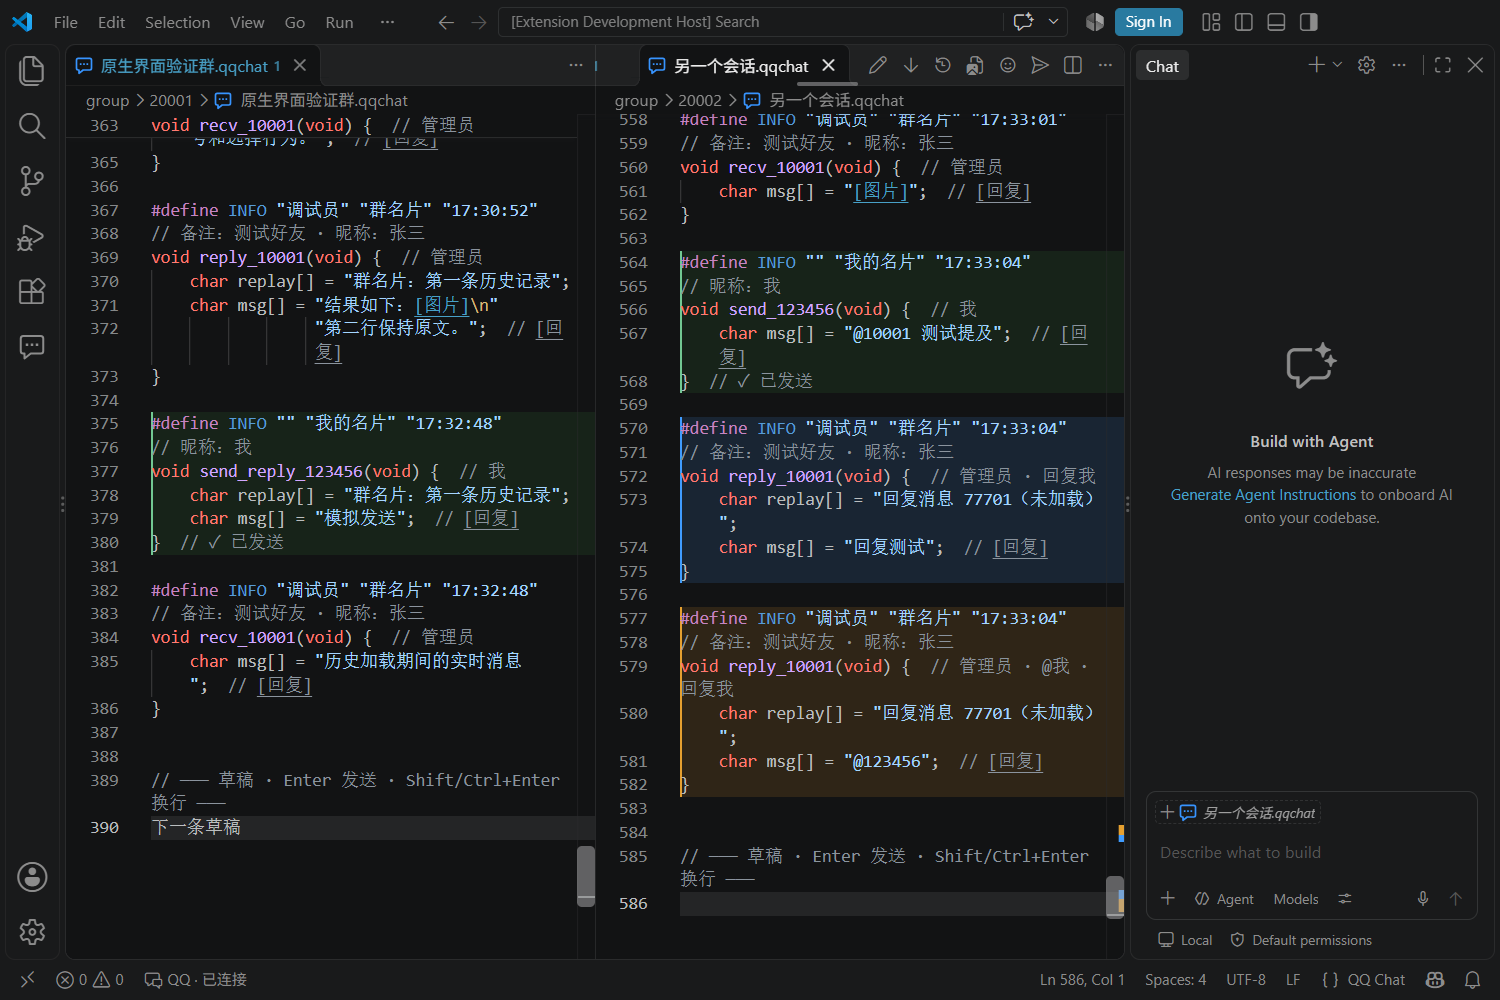
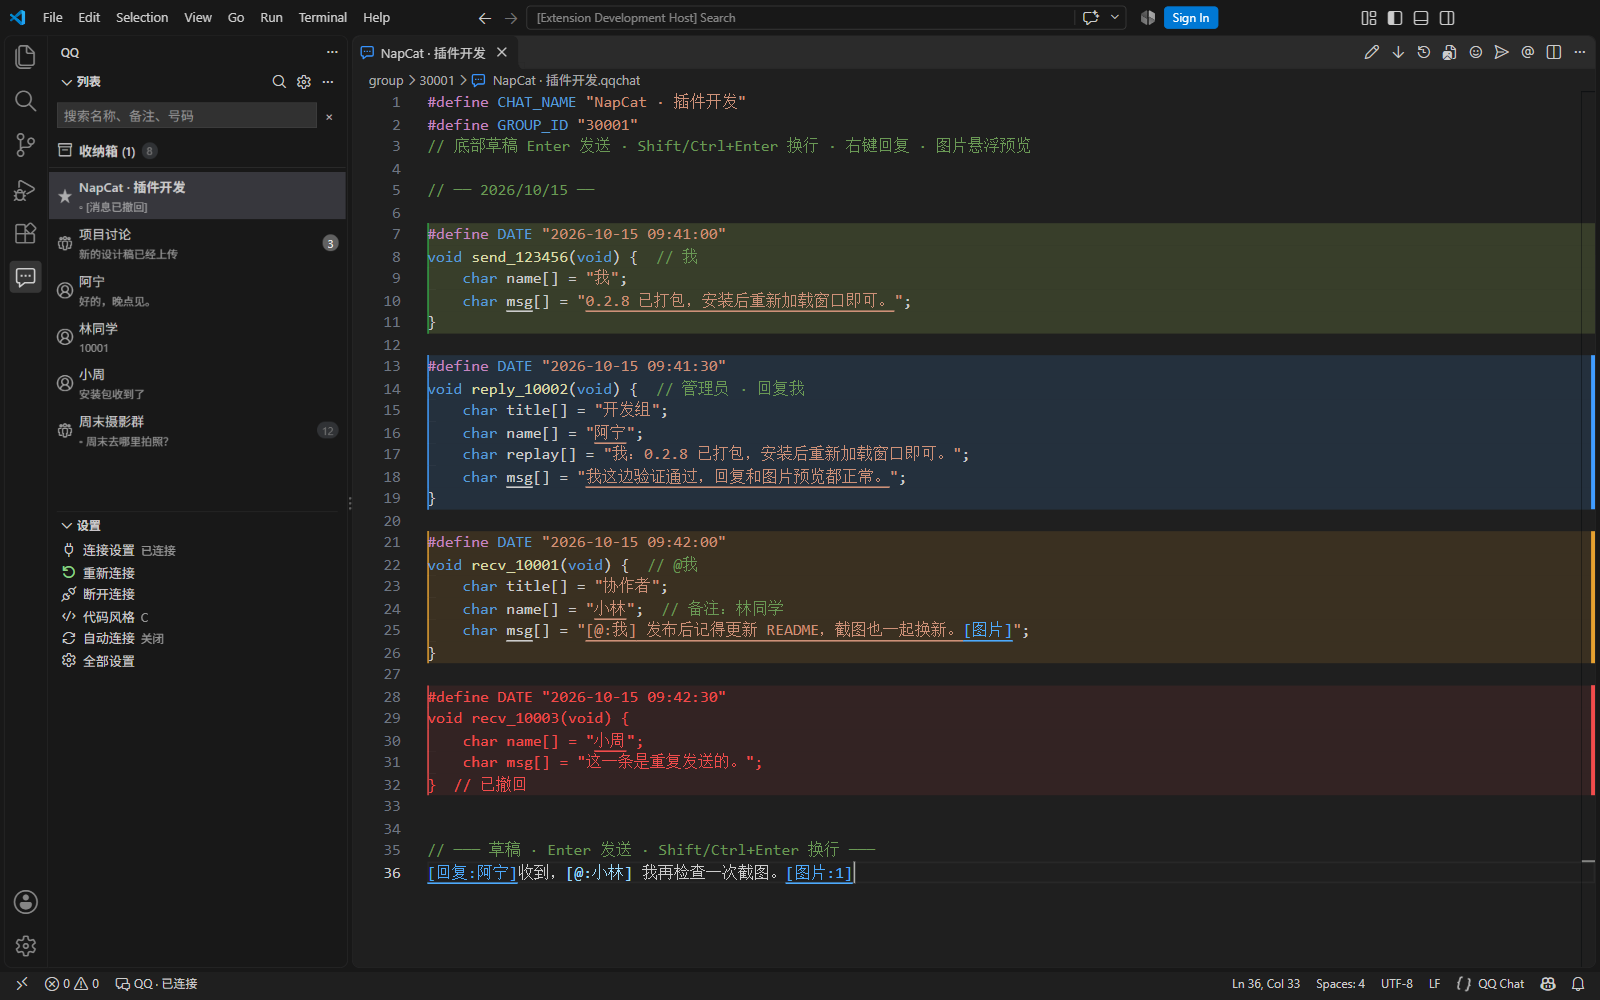
docs: refresh README and desktop previews for 0.2.8

diff --git a/tests/preview.ts b/tests/preview.ts
@@ -1,0 +1,127 @@
+import * as vscode from 'vscode';
+import assert from 'node:assert/strict';
+import * as fs from 'node:fs/promises';
+import * as path from 'node:path';
+import type { QQApp } from '../src/extension';
+import { newChat, parseMessage } from '../src/model';
+import { MockNapCat, png, until } from './fixture';
+import { TestUI } from './ui';
+
+// Real extension UI with synthetic data; no real QQ account or message sending.
+export async function run(): Promise<void> {
+  const backend = new MockNapCat();
+  backend.history = () => [];
+  await backend.start();
+  let app: QQApp | undefined, ui: TestUI | undefined;
+  try {
+    const extension = vscode.extensions.getExtension<{ app: QQApp }>('rynxis.vscode-qq')!;
+    app = (await extension.activate()).app;
+    await vscode.workspace.getConfiguration('editor').update('editContext', false, vscode.ConfigurationTarget.Global);
+    await vscode.workspace.getConfiguration('qq').update('notifications', 'off', vscode.ConfigurationTarget.Global);
+    await app.config.saveConnection(backend.url, '', false);
+    await app.connect();
+    await until(() => app!.ready && backend.listResponses >= 2);
+    ui = await TestUI.connect();
+    await ui.call('Emulation.setDeviceMetricsOverride', { width: 1600, height: 1000, deviceScaleFactor: 1, mobile: false });
+    await vscode.commands.executeCommand('workbench.action.closeAllEditors');
+    await vscode.commands.executeCommand('workbench.action.joinAllGroups');
+    await vscode.commands.executeCommand('workbench.action.closeAuxiliaryBar');
+    await vscode.commands.executeCommand('workbench.action.closePanel');
+    await vscode.commands.executeCommand('qq.show.list');
+
+    const store = app.store!, key = 'group:30001';
+    store.chats.delete('group:20001');
+    store.upsert(newChat('group', 30001, 'NapCat · 插件开发'));
+    store.upsert(newChat('group', 20002, '周末摄影群'));
+    store.upsert({ ...newChat('private', 10001, '林同学'), remark: '林同学' });
+    for (const chat of [newChat('group', 20003, '项目讨论'), newChat('private', 10002, '阿宁'), newChat('group', 20004, '技术交流'), newChat('private', 10003, '小周')]) store.upsert(chat);
+    store.toggleFavorite(key);
+    store.setNotification('group:20002', 'muted');
+    store.chats.get('group:20002')!.unread = 12;
+    store.chats.get('group:20002')!.preview = '周末去哪里拍照？';
+    store.setNotification('group:20003', 'notify');
+    store.chats.get('group:20003')!.unread = 3;
+    store.chats.get('group:20003')!.preview = '新的设计稿已经上传';
+    store.setNotification('group:20004', 'muted');
+    store.chats.get('group:20004')!.unread = 8;
+    store.toggleCollapsed('group:20004');
+    store.chats.get('private:10002')!.preview = '好的，晚点见。';
+    store.chats.get('private:10003')!.preview = '安装包收到了';
+    await app.openChat(key);
+    await app.loadMembers(key);
+    store.setMembers(key, [
+      { user_id: 123456, card: '我', role: 'member' },
+      { user_id: 10001, card: '小林', title: '协作者', role: 'member' },
+      { user_id: 10002, card: '阿宁', title: '开发组', role: 'admin' },
+      { user_id: 10003, card: '小周', role: 'member' }
+    ]);
+    const base = new Date('2026-10-15T09:41:00+08:00').getTime() / 1000;
+    const samples = [
+      { message_id: 7001, user_id: 123456, message: [{ type: 'text', data: { text: '0.2.8 已打包，安装后重新加载窗口即可。' } }] },
+      { message_id: 7002, user_id: 10002, message: [{ type: 'reply', data: { id: 7001 } }, { type: 'text', data: { text: '我这边验证通过，回复和图片预览都正常。' } }] },
+      { message_id: 7003, user_id: 10001, message: [{ type: 'at', data: { qq: 123456 } }, { type: 'text', data: { text: ' 发布后记得更新 README，截图也一起换新。' } }, { type: 'image', data: { file: 'preview.png', url: backend.imageUrl } }] },
+      { message_id: 7004, user_id: 10003, message: [{ type: 'text', data: { text: '这一条是重复发送的。' } }] }
+    ];
+    for (const [index, sample] of samples.entries()) store.add(parseMessage({ ...sample, time: base + index * 30, message_type: 'group', group_id: 30001, sender: { user_id: sample.user_id } }, key, store.selfId), false);
+    store.recall(key, '7004');
+    const mention = store.reserveMention(key, '10001', '小林');
+    store.setDraft(key, `收到，${mention} 我再检查一次截图。`);
+    store.setReply(key, '7002', '阿宁');
+    store.attach(key, [await app.attachments!.stage(png, '截图示例')]);
+    app.trees[0].refresh();
+    const editor = vscode.window.activeTextEditor!;
+    await app.native.sync(editor, true);
+    await app.native.focus(editor);
+    await vscode.commands.executeCommand('notifications.clearAll');
+    const list = await ui.webview('body[data-section="list"] #search');
+    await until(async () => await list.evaluate(`document.querySelectorAll('.row').length === 6`));
+    await list.evaluate('document.fonts.ready');
+
+    const output = path.join(extension.extensionPath, '.test-output', 'previews');
+    await fs.mkdir(output, { recursive: true });
+    const screenshots: Record<string, unknown>[] = [];
+    const capture = async (name: string) => {
+      await vscode.commands.executeCommand('notifications.clearAll');
+      await ui!.evaluate('new Promise(resolve => requestAnimationFrame(() => requestAnimationFrame(resolve)))');
+      const layout = await ui!.evaluate(`(() => {const rect=id=>document.getElementById(id)?.getBoundingClientRect();return {width:innerWidth,height:innerHeight,auxiliaryWidth:rect('workbench.parts.auxiliarybar')?.width||0,editorWidth:rect('workbench.parts.editor')?.width||0};})()`);
+      assert.equal(layout.width, 1600); assert.equal(layout.height, 1000);
+      assert.equal(layout.auxiliaryWidth, 0, '截图不能包含右侧 Copilot 区域');
+      assert.ok(layout.editorWidth >= 1000, '主编辑区必须保持足够宽度');
+      assert.equal(vscode.window.tabGroups.all.length, 1, '预览使用单个编辑器组');
+      const result = await ui!.call('Page.captureScreenshot', { format: 'png', captureBeyondViewport: false });
+      const bytes = Buffer.from(result.data, 'base64');
+      assert.equal(bytes.readUInt32BE(16), 1600); assert.equal(bytes.readUInt32BE(20), 1000);
+      await fs.writeFile(path.join(output, name), bytes);
+      screenshots.push({ name, ...layout });
+    };
+
+    await capture('message-highlights.png');
+    await vscode.commands.executeCommand('qq.configure');
+    const settings = await ui.webview('#codeLanguage');
+    await until(async () => await settings.evaluate(`document.getElementById('url').value.startsWith('ws://') && document.getElementById('codeLanguage').value === 'c'`));
+    await settings.evaluate('document.fonts.ready');
+    await capture('settings.png');
+    await vscode.window.tabGroups.close(vscode.window.tabGroups.activeTabGroup.activeTab!);
+    await app.openChat(key);
+    await vscode.commands.executeCommand('qq.emojis');
+    const panel = await ui.webview('#basicFaces');
+    await until(async () => await panel.evaluate(`document.querySelectorAll('#basicFaces button').length > 0`));
+    await panel.evaluate(`document.getElementById('tabBasic').click()`);
+    const chatEditor = vscode.window.visibleTextEditors.find(e => e.document.uri.scheme === 'qqchat')!;
+    app.editor.latest(chatEditor, false);
+    await until(() => chatEditor.visibleRanges.some(range => range.end.line >= chatEditor.document.lineCount - 2));
+    await capture('emoji-picker.png');
+    await panel.key('Escape', 27);
+    await until(() => vscode.window.activeTextEditor?.document.uri.scheme === 'qqchat');
+    store.setDraft(key, '/', undefined, []);
+    const active = vscode.window.activeTextEditor!;
+    await app.native.sync(active, true); await app.native.focus(active);
+    await vscode.commands.executeCommand('editor.action.triggerSuggest');
+    await ui.waitFor(`document.querySelector('.suggest-widget.visible')?.textContent.includes('/emoji')`);
+    await capture('slash-commands.png');
+    await vscode.commands.executeCommand('hideSuggestWidget');
+    assert.equal(backend.sent.length, 0);
+    await fs.writeFile(path.join(output, 'preview-result.json'), JSON.stringify({ version: extension.packageJSON.version, screenshots, realSends: 0, simulatedSends: backend.sent.length }, null, 2));
+    console.log(`QQ previews: ${screenshots.length} screenshots, 1600x1000, Copilot closed, no messages sent`);
+  } finally { ui?.close(); await app?.shutdown(); await backend.close(); }
+}
